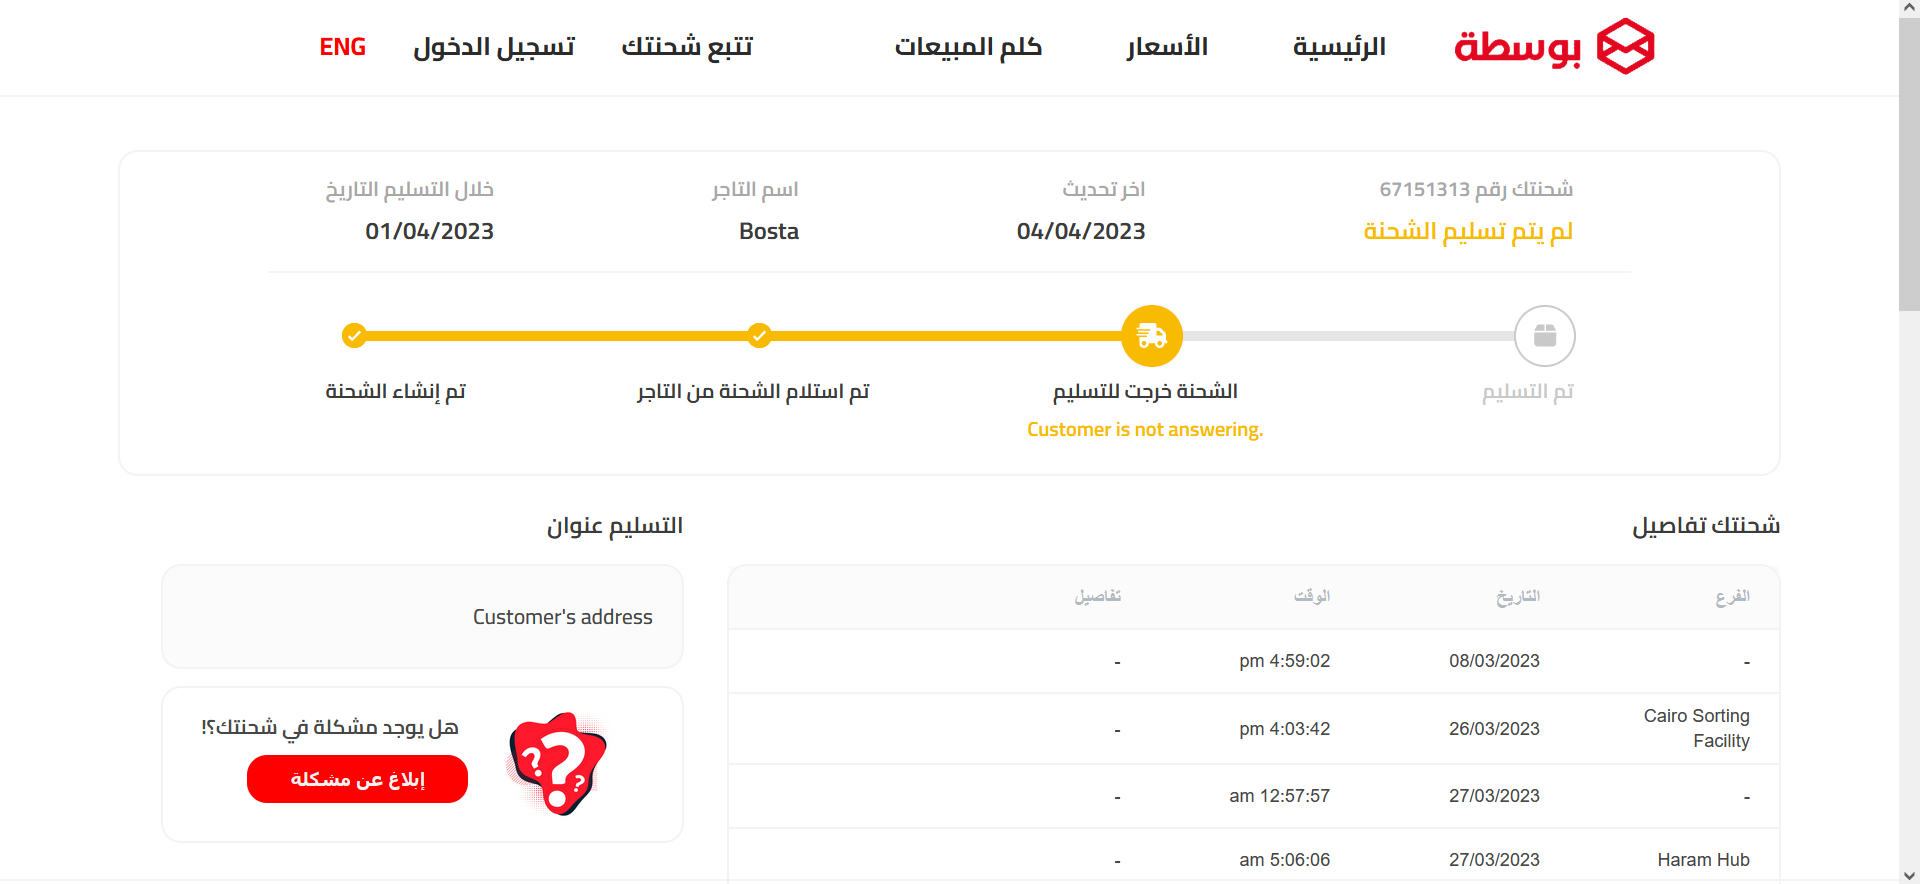
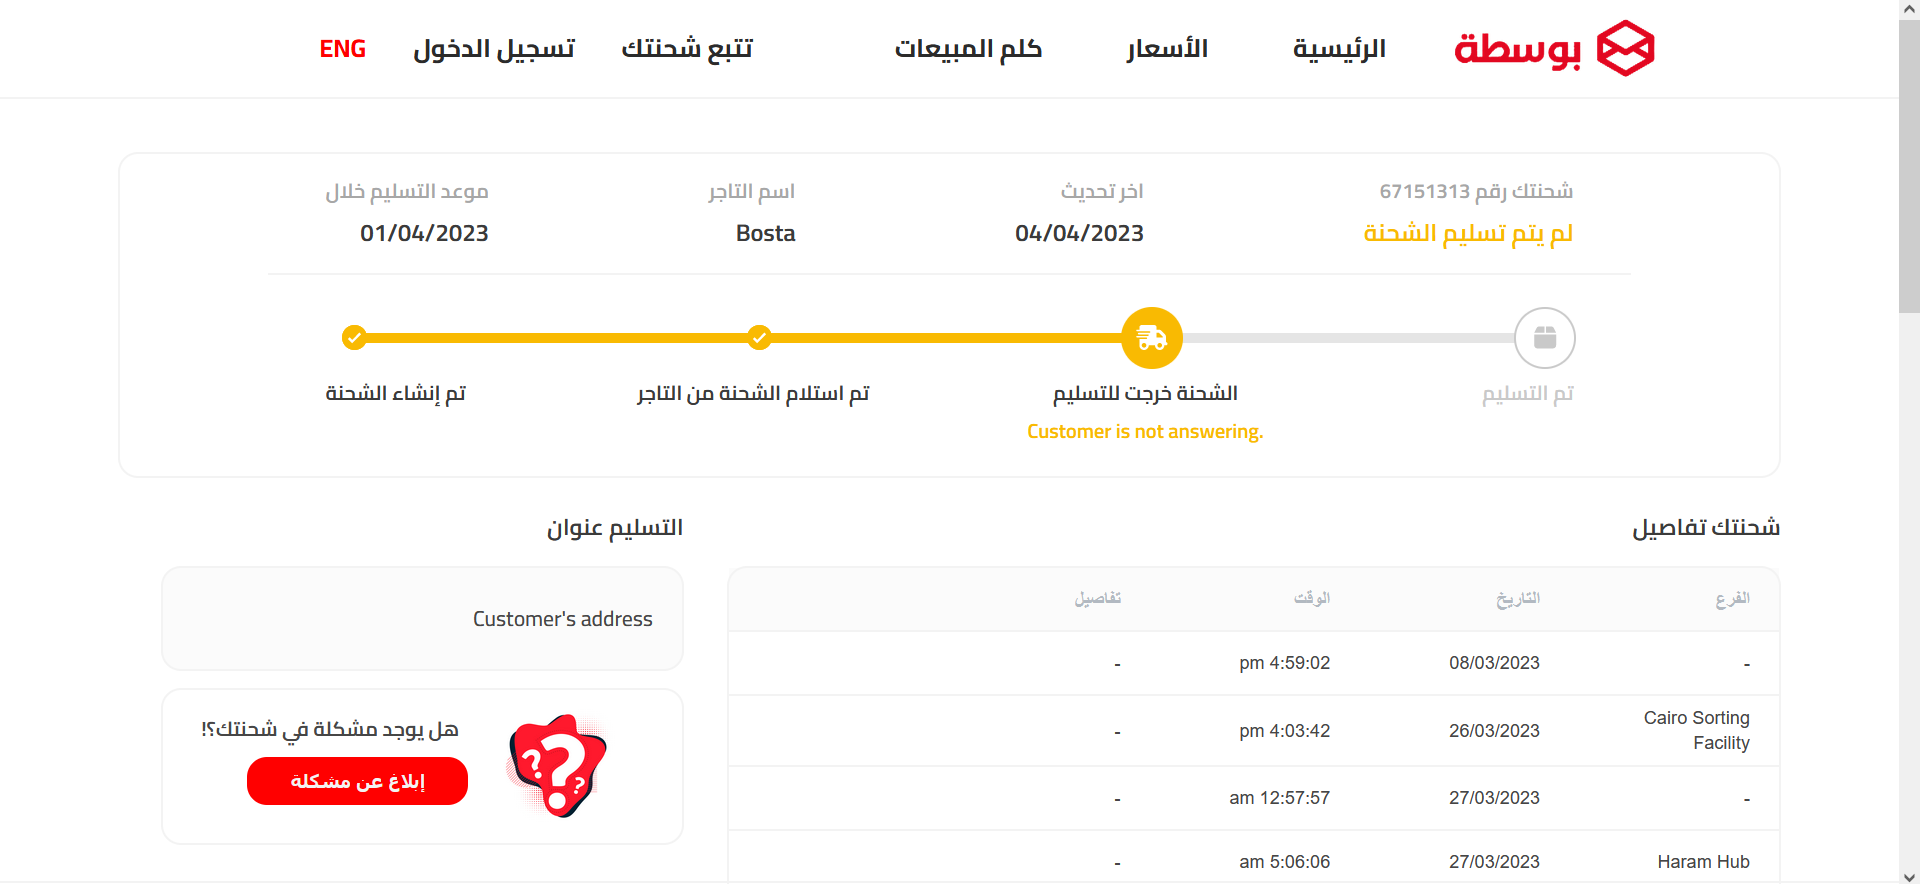
typo fix

diff --git a/src/components/shipment_details_bar.js b/src/components/shipment_details_bar.js
@@ -26,7 +26,7 @@ function ShipmentDetailsBar ({id,state, lastUpdate, retailer, deliveryDate, colo
                     <Row className='Black-font'>{retailer}</Row>
                 </Col>
                 <Col>
-                    <Row className='Grey-font' >{t('estimated')} {t('delivery')} {t('date')}</Row>
+                    <Row className='Grey-font' >{t('estimated_del_date')}</Row>
                     <Row className='Black-font'>{deliveryDate}</Row>
                 </Col>
             </Row>
